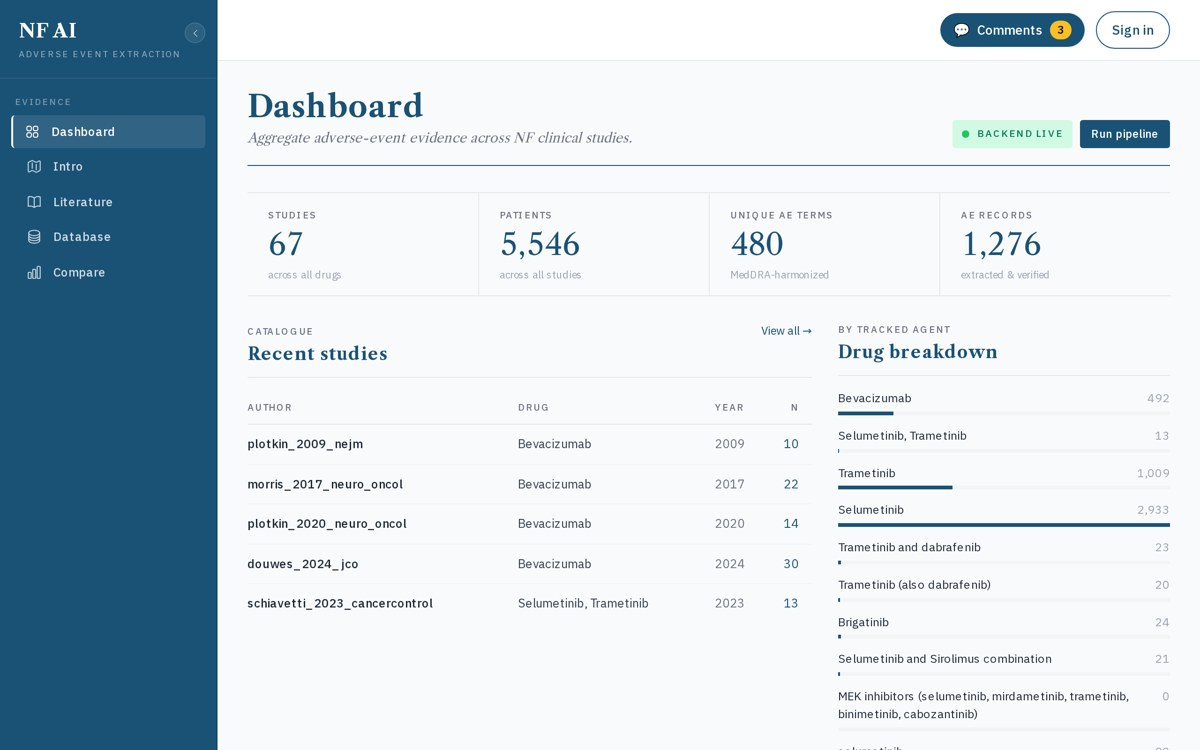
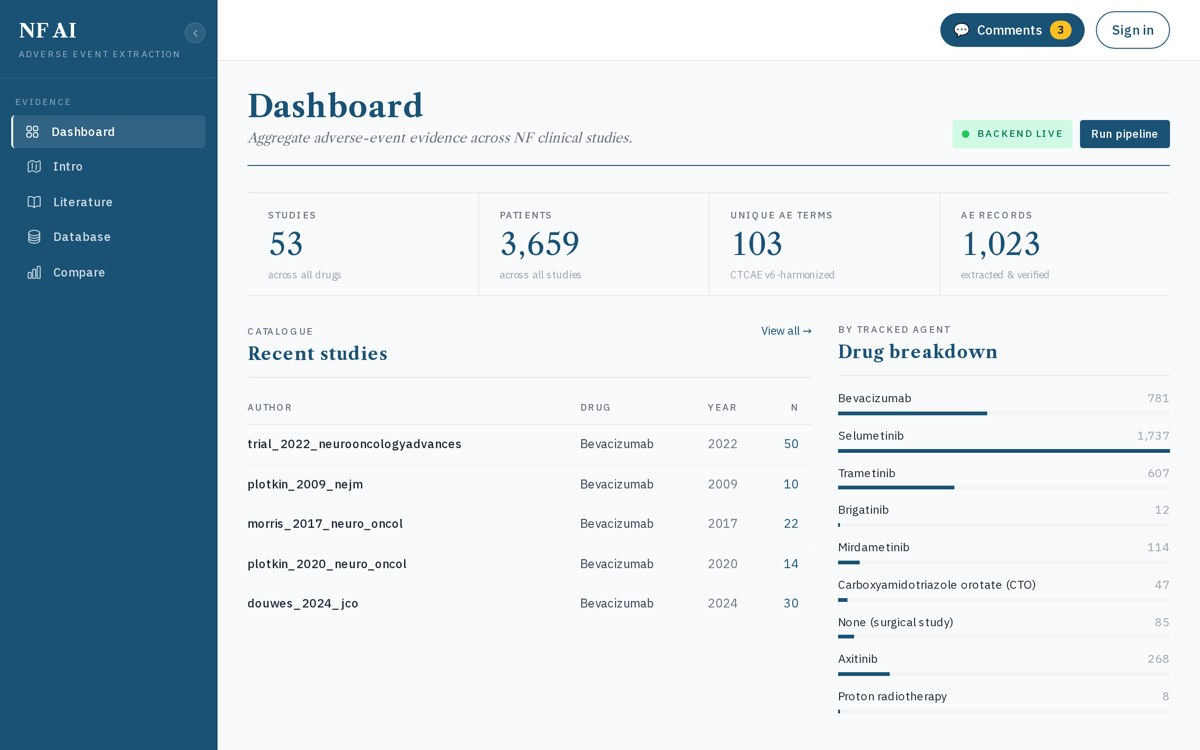
update demo page

diff --git a/nf_conference2026/index.html b/nf_conference2026/index.html
@@ -313,7 +313,7 @@
         <div class="cbody">
           <a class="demo-meta" href="#schedule">Lightning Round II &middot; Wenzhou Ding</a>
           <h3>Paper extraction using AI</h3>
-          <p>Extracts and aggregates adverse-event evidence from NF clinical-study papers: 67 studies, 5,500+ patients, and 480 MedDRA-harmonized AE terms.</p>
+          <p>Extracts and aggregates adverse-event evidence from NF clinical-study papers: 53 studies, 3,600+ patients, and 103 CTCAE v6-harmonized AE terms.</p>
           <a class="launch" href="https://nf-ae.taila4715f.ts.net" target="_blank" rel="noopener">Open demo &#8599;</a>
         </div>
       </div>